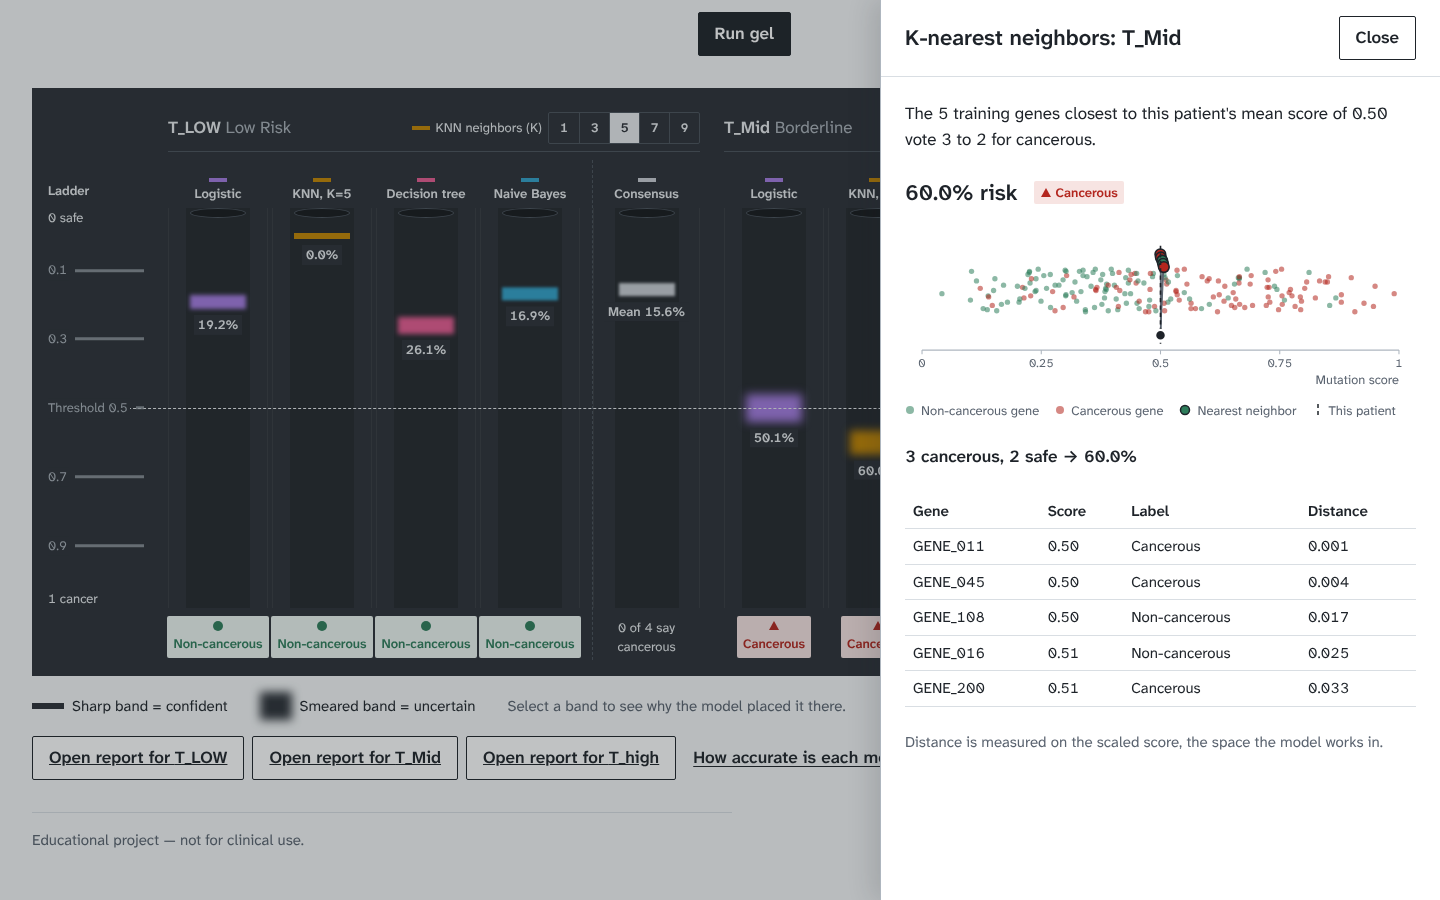
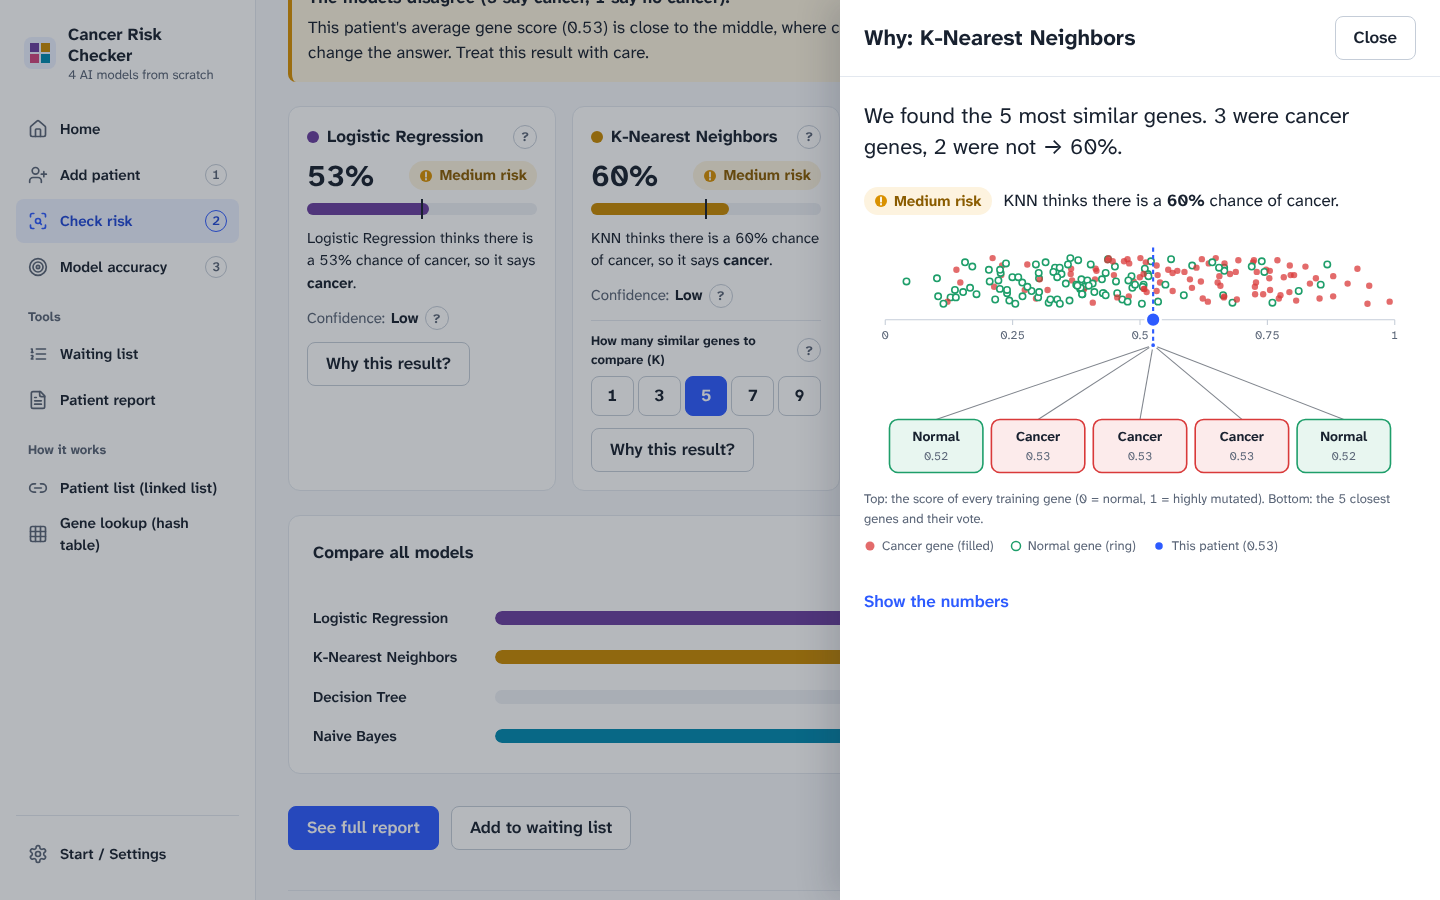
docs: update README screens and screenshots

diff --git a/frontend/src/screens/CheckRisk.jsx b/frontend/src/screens/CheckRisk.jsx
@@ -56,7 +56,10 @@ function Disagree({ result }) {
   if (votes === 0 || votes === 4) return null;
   return (
     <div className={styles.disagree} role="note">
-      <strong>The models disagree ({votes} say cancer, {4 - votes} say no cancer).</strong>
+      <strong>
+        The models disagree ({votes} {votes === 1 ? 'says' : 'say'} cancer, {4 - votes}{' '}
+        {4 - votes === 1 ? 'says' : 'say'} no cancer).
+      </strong>
       <span>
         {Math.abs(result.featureRaw - 0.5) < 0.12
           ? `This patient's average gene score (${score(result.featureRaw)}) is close to the middle, where cancer and normal genes overlap. Small differences between the models change the answer.`

diff --git a/README.md b/README.md
@@ -1,21 +1,21 @@
 # 🔬 Cancer Diagnosis System
 
-> **Cancer risk from genetic mutation scores with four machine learning models written from scratch in C++, and a React interface designed as a pathology lab bench.**
+> **Cancer risk from genetic mutation scores with four machine learning models written from scratch in C++, and a React interface that shows, step by step, what each model does.**
 
 [![C++](https://img.shields.io/badge/C++-17-blue.svg)](https://en.cppreference.com/)
 [![CMake](https://img.shields.io/badge/CMake-3.10+-green.svg)](https://cmake.org/)
 [![React](https://img.shields.io/badge/React-18-61dafb.svg)](https://react.dev/)
 [![License](https://img.shields.io/badge/License-MIT-yellow.svg)](LICENSE)
 
-> **Educational project — not for clinical use.**
+> **Student project — not for real medical use.**
 
-![The gel: each lane is one model; a band sinks further the higher that model puts the cancer risk](docs/screenshots/gel.png)
+![Check risk: four models each guess the chance of cancer, then a final result counts their votes](docs/screenshots/check-risk.png)
 
 ## 📋 Table of Contents
 
 - [Overview](#-overview)
 - [Features](#-features)
-- [Design: the Pathology Bench](#-design-the-pathology-bench)
+- [Design](#-design)
 - [Tech Stack](#-tech-stack)
 - [Getting Started](#-getting-started)
 - [Usage](#-usage)
@@ -46,58 +46,53 @@ The project has two parts:
 - 🧠 **Four models from scratch**: Logistic Regression, K-Nearest Neighbors, Decision Tree and Naive Bayes
 - 🧪 **Explained predictions**: for every model you can see the numbers behind its answer
 - 📊 **Honest evaluation**: metrics on a held-out 20% split the evaluated models never trained on
-- 🧱 **Data structures you can see**: queue as a tube rack, linked list as a chain of custody, hash table as a freezer index
+- 🧱 **Data structures you can see**: the waiting list is a queue, the patient list a linked list and the gene lookup a hash table, each animated step by step
 
 ## ✨ Features
 
-- **Gel**: run up to three patients through all four models at once; disagreement and uncertainty are visible at a glance
-- **Why drawer**: KNN neighbours, the decision-tree path, the logistic-regression formula and the Naive Bayes bell curves, all with real numbers
-- **KNN K control**: change K (1–9) for one request and watch the KNN band move
-- **Accession**: add a patient with genetic records; the models retrain with the new genes
-- **Rack**: the test queue (FIFO), processed tube by tube
-- **Report**: a printable one-page report per patient with all four verdicts and a "models disagree" flag
-- **Proficiency**: one 96-well plate per model, and a threshold dial that recomputes accuracy, precision, recall and F1
-- **Custody**: linear search through the patient linked list, node by node
-- **Freezer**: the hash table's buckets and a step-by-step trace of where a gene ID is stored
-- **Lab notebook**: a log of real events with times, exportable as `.txt`
+The app is written in plain words for people with no biology or machine-learning
+background. Every screen starts with one sentence saying what it is for, and every
+technical term has a "?" with a short explanation.
 
-## 🧫 Design: the Pathology Bench
+- **Home**: three steps (Load the data → Add or pick a patient → Check the risk), each
+  ticked off as you complete it, plus a short guided tour on the first visit
+- **Check risk** (main screen): the patient's gene scores flow into four model cards,
+  each card fills its risk bar, and the final result counts the votes ("3 of 4 models
+  say cancer"). Confidence (High / Medium / Low), a "models disagree" note, a comparison
+  chart, a KNN "how many similar genes (K)" control and side-by-side comparison of two patients
+- **Why this result?**: one animated picture per model: KNN's nearest genes voting, the
+  decision tree's yes/no questions, logistic regression's S-curve and Naive Bayes' two hills
+- **Add patient**: gene scores with sliders, a yes/no "linked to cancer?" answer and a live
+  average; the models learn from the new genes
+- **Model accuracy**: ranked accuracy, precision, recall and F1 on hidden test genes, a
+  2×2 table in words (found cancer, missed cancer, false alarm, correctly said no cancer)
+  and a "cancer line" slider that shows the trade-off
+- **Waiting list** (queue), **Patient list** (linked list) and **Gene lookup** (hash table)
+  animate how each data structure works
+- **Patient report**: one printable page (Print / Save as PDF)
+- **Activity**: a list of what happened, exportable as `.txt`
 
-The interface looks and behaves like a genetics lab bench. Every screen is a lab tool, and
-the program's data structures appear as lab objects:
+## 🎨 Design
 
-| Program | Lab object | Screen |
-|---|---|---|
-| Model predictions | Gel electrophoresis | Gel |
-| Test queue (FIFO) | Tube rack and analyzer | Rack |
-| Patient history (linked list) | Chain of custody | Custody |
-| Mutation map (hash table) | Freezer box index | Freezer |
-| Evaluation on held-out data | Proficiency test plates | Proficiency |
+A friendly, light medical-app style aimed at a first-year student or a teacher.
 
-**The gel is the one bold element.** Its vertical axis is risk: 0 (safe) at the top, 1
-(cancer) at the bottom, with a dashed threshold line at 0.5. A sharp band means the model
-is confident; a smeared band means it is unsure (band height and blur grow as the risk
-gets closer to 0.5). When a gel runs, the bands migrate from the wells to their position;
-with reduced motion turned on they simply appear in place.
-
-**Stain colors identify models only**, named after real histology stains:
-
-| Model | Stain | Light surfaces | On the gel |
-|---|---|---|---|
-| Logistic Regression | Hematoxylin | `#6A3FA0` | `#A47BE1` |
-| KNN | DAB amber | `#C98A00` | `#C48600` |
-| Decision Tree | Eosin | `#D0457E` | `#E75A91` |
-| Naive Bayes | Methylene blue | `#0089B0` | `#31A1C9` |
-
-Outcomes have their own colors (`#2E7D5B` non-cancerous, `#B3261E` cancerous) and always
-come with a word and an icon. The gel colors are lighter steps of the same hues, checked
-for color-blind separation and 3:1 contrast on the dark gel surface. Every lane, plate and
-legend also prints the model name as text, so no information depends on color alone.
-All values are in [`frontend/src/styles/tokens.css`](frontend/src/styles/tokens.css).
-
-Type is Atkinson Hyperlegible Next throughout (a typeface designed for legibility), with
-Libre Barcode 128 only on specimen labels, which carry a valid Code 128 barcode of the
-patient ID.
+- **Plain language**: screens are named for what you do (Add patient, Check risk, Model
+  accuracy). Results are sentences: "Naive Bayes thinks there is a 72% chance of cancer, so
+  it says cancer."
+- **Risk is never colour alone**: Low (green ✓, under 35%), Medium (amber !, 35–65%) and
+  High (red ▲, over 65%) always show a word and an icon. These levels are for display; a
+  model's own answer always uses the 50% cancer line.
+- **Model colours** identify models only and always appear next to the model's name:
+  Logistic Regression `#6A3FA0`, KNN `#C98A00`, Decision Tree `#D0457E`, Naive Bayes `#0089B0`.
+  The risk colours are lighter than text needs, so risk *words* use darker shades
+  (5.3:1 contrast or more); bars and icons use the bright colours.
+- **Animation explains**: when you press Check risk, the steps the system takes are shown
+  in order (reading the genes, each model deciding, the votes being counted). Every other
+  animation answers something you did. With reduced motion turned on, results appear at once.
+- **Type**: Atkinson Hyperlegible Next, a typeface designed for readability, with
+  tabular figures for numbers.
+- **Accessible**: keyboard access everywhere, visible focus, panels that trap focus and
+  close on Esc, the final result announced to screen readers, and 4.5:1 text contrast.
 
 ## 🛠 Tech Stack
 
@@ -109,7 +104,7 @@ patient ID.
 
 ### Frontend
 - **React 18** with **Vite**, React Router
-- **framer-motion** (gel migration, drawer), **@dnd-kit/core** (drag samples onto the gel), **d3-scale** (scales only; every chart is hand-drawn SVG)
+- **framer-motion** (all animation), **d3-scale** (scales only; every chart is hand-drawn SVG), **lucide-react** (navigation icons)
 - CSS Modules and one `tokens.css`; fonts from `@fontsource`
 
 ## 🚀 Getting Started
@@ -174,11 +169,11 @@ npm install
 npm run dev
 ```
 
-Open the URL Vite prints (normally http://localhost:5173). On the **Setup** screen, choose
+Open the URL Vite prints (normally http://localhost:5173). On **Home**, follow step 1 and choose
 **Load data**. The server reads the CSV files and trains the four models.
 
 The frontend talks to `http://localhost:8080` by default. To use another address, change
-it on the Setup screen, or set `VITE_API_URL` before `npm run dev`.
+it on the Start screen (under Advanced), or set `VITE_API_URL` before `npm run dev`.
 
 Other scripts: `npm run build` (production build in `frontend/dist/`) and `npm run lint`.
 
@@ -186,14 +181,15 @@ For more detail and troubleshooting, see [SETUP_GUIDE.md](SETUP_GUIDE.md).
 
 ## 📖 Usage
 
-1. **Setup**: load the data (trains the models).
-2. **Accession**: add a patient with their genes. The models retrain.
-3. **Gel**: drag specimen labels onto the wells (or select one and press Enter), then
-   **Run gel**. Select a band to see why the model placed it there.
-4. **Rack**: add tubes, pick a model and **Process rack**.
-5. **Report**: open the one-page report and **Print report**.
-6. **Proficiency**, **Custody** and **Freezer**: see how accurate each model is and how the
-   data structures work.
+1. **Home** shows three steps. A short tour points at each part on the first visit.
+2. **Start**: press **Load data**. The checklist ticks off reading the files and training
+   the 4 models.
+3. **Add patient**: enter a patient and their gene scores, then **Save patient**.
+4. **Check risk**: pick a patient and press **Check risk**. Press **Why this result?** on
+   any model to see how it decided.
+5. **Model accuracy**: see how often each model is right, and move the cancer line.
+6. **Waiting list**, **Patient report**, **Patient list (linked list)** and **Gene lookup
+   (hash table)** are in the sidebar (on a phone, under **More**).
 
 ## 📁 Project Structure
 
@@ -212,9 +208,11 @@ Cancer-Diagnosis-System/
 │       ├── api/client.js      # The only place that calls the server
 │       ├── state/AppState.jsx # App state (Context + useReducer)
 │       ├── styles/            # tokens.css, global.css
-│       ├── components/        # SpecimenLabel, Band, Lane, Well, Plate, Tube, Drawer, …
-│       ├── screens/           # Setup, Accession, Rack, Gel, Report, Proficiency, Custody, Freezer
-│       └── lib/               # metrics.js, format.js, models.js, code128.js, hash.js
+│       ├── components/        # Shell (navigation), ModelCard, FinalResult, Explain, Risk, Tour, …
+│       ├── screens/           # Home, Start, AddPatient, CheckRisk, Accuracy, WaitingList,
+│       │                      # PatientReport, LinkedList, HashTable
+│       ├── hooks/useRiskRun.js # Runs Check risk and its step-by-step animation
+│       └── lib/               # metrics.js, format.js, models.js, hash.js, tour.js
 ├── docs/screenshots/
 ├── generate_genes.py          # Generates a realistic genes.csv
 ├── main.cpp                   # Optional command-line version
@@ -366,13 +364,14 @@ P001,GENE_001
 P001,GENE_002
 ```
 
-## 🎨 Screenshots
+## 📸 Screenshots
 
 | | |
 |---|---|
-| ![Why drawer for KNN: the nearest training genes and their votes](docs/screenshots/why-knn.png) | ![Report for one patient with the four verdicts](docs/screenshots/report.png) |
-| ![Proficiency plates: filled well = correct, ring = wrong](docs/screenshots/proficiency.png) | ![Custody: linear search through the linked list](docs/screenshots/custody.png) |
-| ![Freezer: hash table buckets and a key trace](docs/screenshots/freezer.png) | |
+| ![Home: three steps, each ticked off when done](docs/screenshots/home.png) | ![Add patient: gene scores with sliders and a live average](docs/screenshots/add-patient.png) |
+| ![Why this result for KNN: the most similar genes vote](docs/screenshots/why-knn.png) | ![Why this result for Logistic Regression: the S-shaped curve](docs/screenshots/why-logistic.png) |
+| ![Model accuracy: ranked bars and results in words](docs/screenshots/model-accuracy.png) | ![Patient list: searching the linked list one patient at a time](docs/screenshots/linked-list.png) |
+| ![Gene lookup: the formula jumps straight to the right box](docs/screenshots/hash-table.png) | ![Check risk on a phone](docs/screenshots/mobile-check-risk.png) |
 
 ## 📝 License
 

diff --git a/DATA_LOADING_TROUBLESHOOTING.md b/DATA_LOADING_TROUBLESHOOTING.md
@@ -2,14 +2,14 @@
 
 ## Problem: Data Not Loading on Server
 
-The data loading fails when choosing **Load data** on the **Setup** screen. Here are the common causes and solutions:
+The data loading fails when choosing **Load data** on the **Start** screen (or from step 1 on Home). Here are the common causes and solutions:
 
 ---
 
 ## **Issue 1: Server Not Running**
 
 ### Symptom:
-- Setup shows: **Server not running** — "Server not reachable at localhost:8080. Start cds_server and try again."
+- A red banner says: "The server is not running. Start cds_server and press Retry."
 - Error appears immediately (no timeout)
 
 ### Solution:
@@ -43,7 +43,7 @@ Starting server on http://localhost:8080 ...
 
 ### Symptom:
 - Server shows error: `Error: Could not open file data/genes.csv`
-- Setup shows **Data not loaded** or the models stay **Not trained yet**
+- Start shows **Data not loaded**, or a blue banner keeps saying "Data not loaded yet."
 
 ### Root Cause:
 The server looks for `data/genes.csv` **relative to where the server executable is running**, not where the executable is located.
@@ -73,7 +73,7 @@ cd Cancer-Diagnosis-System/build
 ### Solution:
 The server already has CORS headers. If still failing:
 1. Check browser console (F12 > Console)
-2. Verify the server address on the **Setup** screen matches where the server is running (default: `http://localhost:8080`)
+2. Verify the server address on the **Start** screen (under Advanced) matches where the server is running (default: `http://localhost:8080`)
 3. Make sure server is actually listening (check terminal output)
 
 ---
@@ -129,17 +129,17 @@ npm run dev
 ```
 
 ### 3. Check the Server Address
-- The app opens on **Setup**
-- Under **Server address**, the API URL should be `http://localhost:8080`
+- Open **Start / Settings** and then **Advanced: server address**
+- The API URL should be `http://localhost:8080`
 - If you change it, choose **Save and reconnect**
 
 ### 4. Load Data
-- On **Setup**, choose **Load data**
+- On **Start**, choose **Load data**
 - Wait a few seconds for the models to train
 
 ### 5. Verify Success
-- **Server status** shows **Trained** with the gene and patient counts
-- The **Lab notebook** on the right records "Data loaded: … Models trained."
+- The checklist ticks every stage and says "Loaded … genes and … patients. All 4 models are trained."
+- **Activity** (top right) lists "Data loaded: …"
 - Check the browser console (F12) for any errors
 
 ---
@@ -165,7 +165,7 @@ If you don't see this, the data loading failed on the server side.
 ### Check Browser Network Tab
 1. Open DevTools (F12)
 2. Go to **Network** tab
-3. Choose **Load data** on Setup
+3. Choose **Load data** on Start
 4. Look for `POST /load` request
 5. Check response (should show geneticCount and patientCount > 0)
 
@@ -182,7 +182,7 @@ The response should show `"modelsTrained":true` with `geneticCount` and `patient
 - [ ] Server built with `cmake --build . --config Release`
 - [ ] Server running from project root (not from build/ folder)
 - [ ] Server shows "Starting server on http://localhost:8080"
-- [ ] Server address on the Setup screen is `http://localhost:8080`
+- [ ] Server address on the Start screen (Advanced) is `http://localhost:8080`
 - [ ] CSV files exist in `data/` folder with correct headers
 - [ ] Browser console shows no errors (F12 > Console)
 - [ ] Network request shows 200 response (F12 > Network)

diff --git a/SETUP_GUIDE.md b/SETUP_GUIDE.md
@@ -127,12 +127,14 @@ Other frontend scripts:
 
 ### Step 5: Load Data
 
-1. The app opens on **Setup**. It shows whether the server is reachable.
-2. Choose **Load data**. The server reads `data/genes.csv`, `data/patients.csv` and
-   `data/patient_genes.csv` and trains the four models.
-3. The status shows **Trained** with the number of genes and patients, and the lab
-   notebook on the right records the event.
-4. Continue with **Accession** (add a patient) or **Gel** (run the models).
+1. The app opens on **Home** with three steps. If the server is not reachable, a red
+   banner says so.
+2. Choose **Load data** (step 1, or the **Start** screen). The server reads
+   `data/genes.csv`, `data/patients.csv` and `data/patient_genes.csv` and trains the four
+   models; a checklist ticks off each stage.
+3. The page says "Loaded … genes and … patients. All 4 models are trained." and the event is
+   listed under **Activity** (top right).
+4. Continue with **Add patient** or **Check risk**.
 
 ## 📂 Project Structure
 
@@ -154,7 +156,7 @@ Cancer-Diagnosis-System/
 │   ├── package.json
 │   └── src/
 │       ├── api/client.js     # All calls to the server
-│       ├── screens/          # Setup, Accession, Rack, Gel, Report, Proficiency, Custody, Freezer
+│       ├── screens/          # Home, Start, Add patient, Check risk, Model accuracy, Waiting list, …
 │       ├── components/       # Shared components
 │       └── styles/tokens.css # Design tokens (colors, type, spacing)
 ├── third_party/
@@ -182,8 +184,8 @@ Change `8080` to your desired port (e.g., `8081`), then rebuild the project.
 
 If you changed the server port, either:
 
-1. Open **Setup** in the web interface, enter the new address under **Server address**
-   and choose **Save and reconnect** (saved in this browser only), or
+1. Open **Start / Settings**, open **Advanced: server address**, enter the new address and
+   choose **Save and reconnect** (saved in this browser only), or
 2. Start the frontend with the address set:
    ```bash
    VITE_API_URL=http://localhost:8081 npm run dev
@@ -375,10 +377,10 @@ patient P007.
 This system includes:
 
 - **Multiple ML Models**: Decision Tree, KNN, Logistic Regression, Naive Bayes
-- **Gel**: all four models side by side, with an explanation for every prediction
+- **Check risk**: all four models side by side, with an explanation for every prediction
 - **Model Evaluation**: metrics on held-out data, with an adjustable threshold
-- **Queue System**: the test rack, processed first in, first out
-- **Data Structures**: the linked list (Custody) and hash table (Freezer) shown step by step
+- **Waiting list**: patients checked first in, first out (a queue)
+- **Data Structures**: the patient list (linked list) and gene lookup (hash table) shown step by step
 
 ## 📞 Need Help?
 
